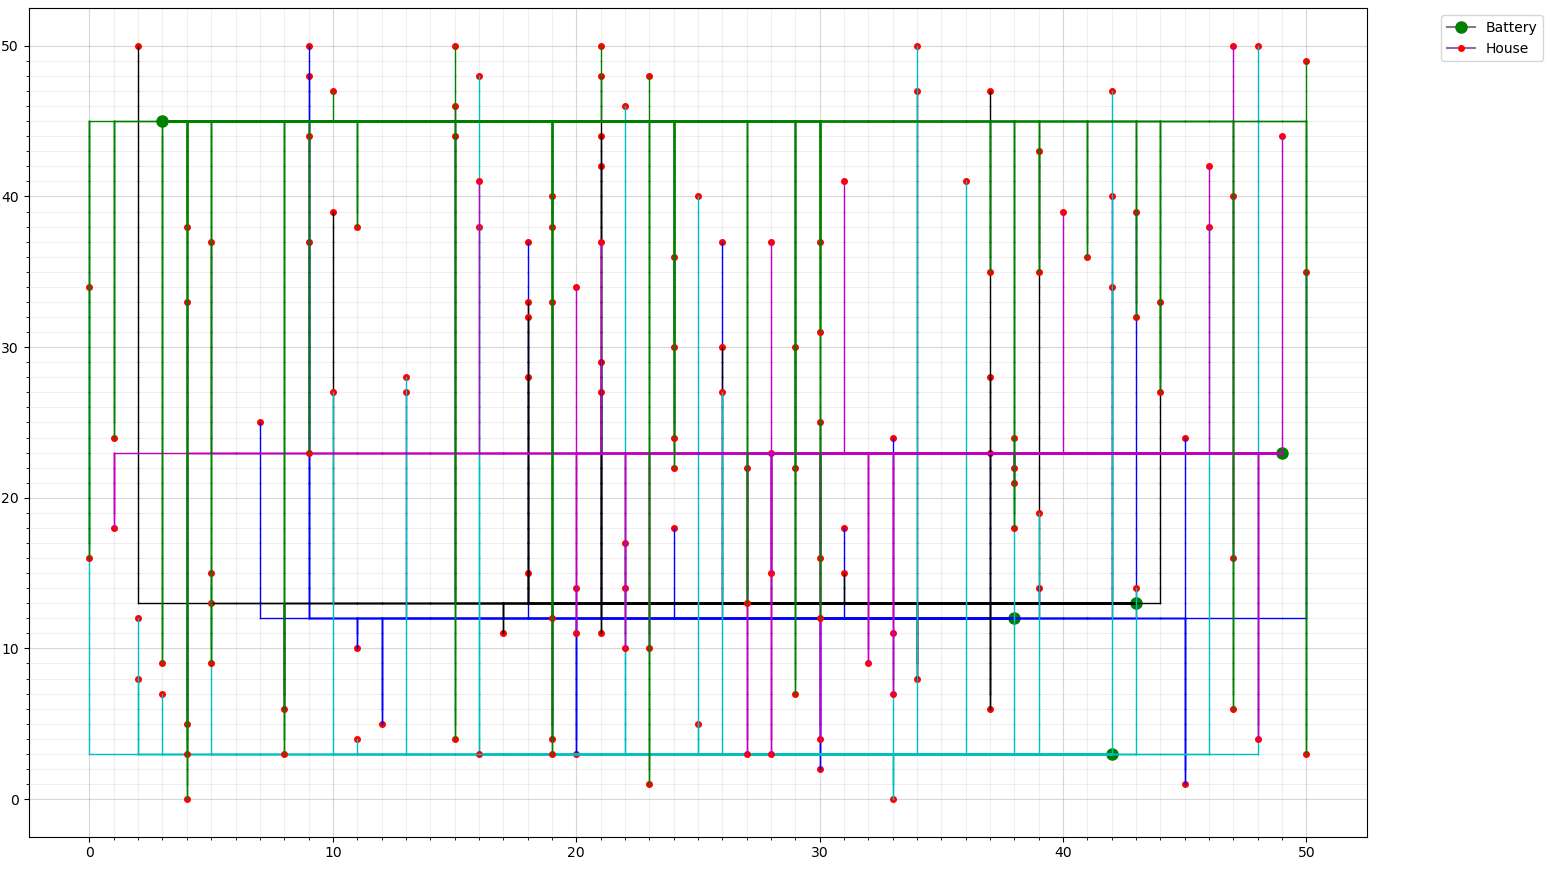
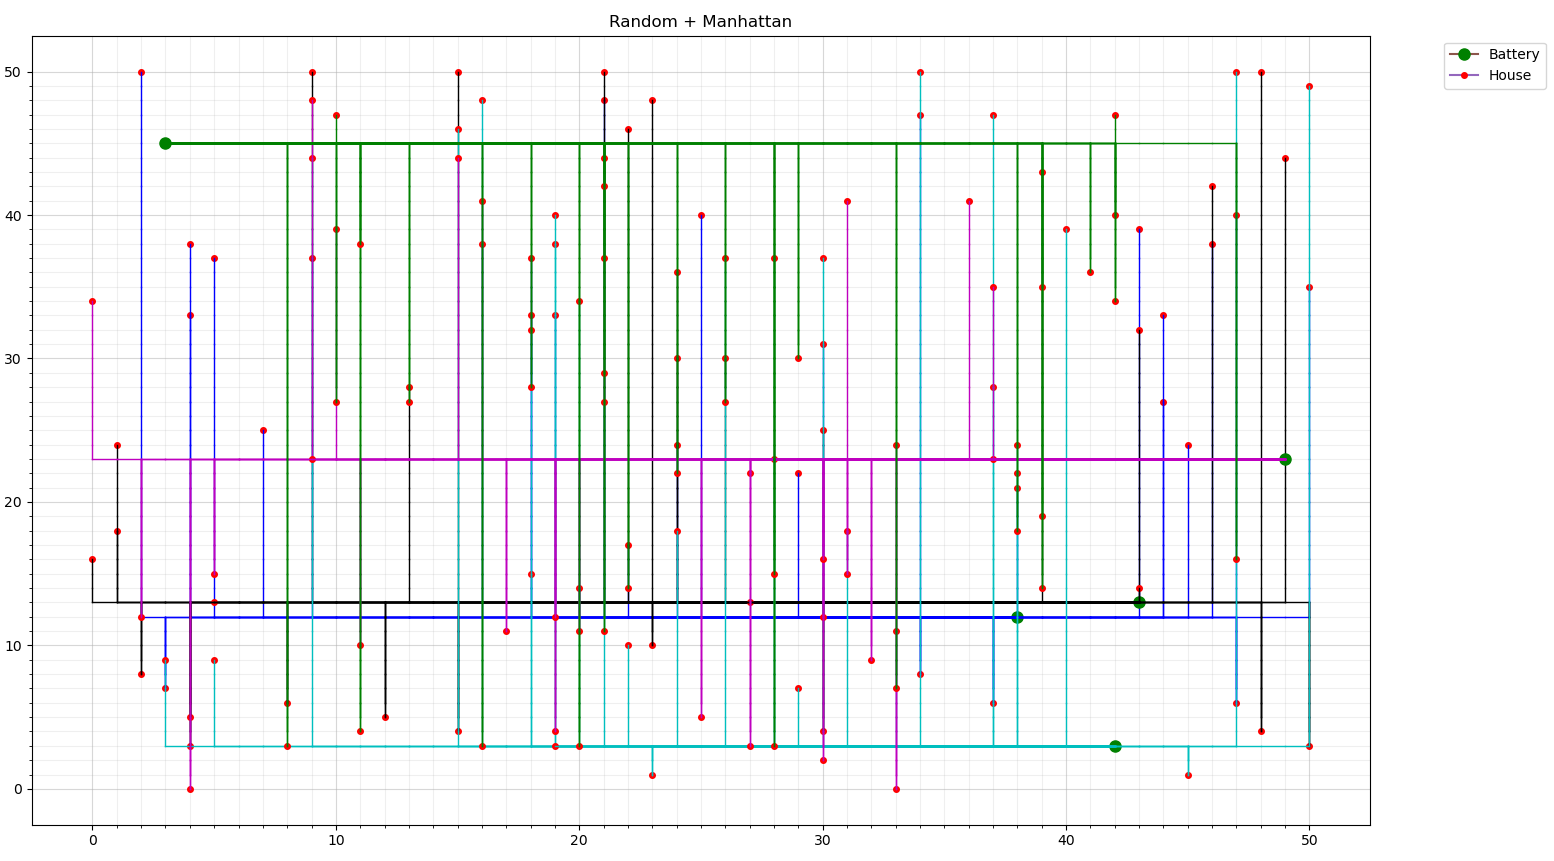
main code in functies gezet

diff --git a/main.py b/main.py
@@ -47,8 +47,9 @@ if __name__ == "__main__":
         if len(sys.argv) == 3:
             alg_method = sys.argv[2]
         else: 
-            alg_method = "--randrwalk"
-
+            alg_method = "--randmanh"
+        
+        district = District(int(sys.argv[1]), "costs-own")
         # Run different methods based on user input
         if alg_method == "--randrwalk":
             """
@@ -58,18 +59,9 @@ if __name__ == "__main__":
                 batttery.
                 Takes quite some time and is really messy in visualisation, 
                 so we only take the first house into account.
-            """
-            district_random_walk = District(int(sys.argv[1]), "costs-own")    
-            connections = random_assignment(district_random_walk.batteries, district_random_walk.houses)
-            house_1 = list(connections.keys())[0]
-            battery = connections[house_1]
-            battery.add_house(house_1)
-            points_walked = random_walk((int(house_1.row), int(house_1.column)), (int(battery.row), int(battery.column)), 50)
-            # Add a cable segment between all the points visited in the random walk
-            for i in range(len(points_walked) - 1):
-                house_1.add_cable_segment((points_walked[i][0], points_walked[i][1]),\
-                                (points_walked[i + 1][0], points_walked[i + 1][1]))
-            plot_output(district_random_walk.return_output(), "Random + random walk")
+            """ 
+            
+            run_random_assingment_random_walk(district)
 
         elif alg_method == "--randmanh":
             """
@@ -78,22 +70,13 @@ if __name__ == "__main__":
                 we now implement the shortest Manhattan distance.
             """
             
-            district_random_shortest = District(int(sys.argv[1]), "costs-own")
-            connections = random_assignment(district_random_shortest.batteries, district_random_shortest.houses)
-            for house in connections:
-                battery = connections[house]
-                # Add the house to the battery connection (such that dictionary is added)
-                battery.add_house(house)
-                district_random_shortest.create_cable(house, battery)
-             
-            print(f"The cost for random assignment and shortest Manhattan distance in district {district.district} is {district_random_shortest.return_cost()}.")
-            plot_output(district_random_shortest.return_output(), "Random + Manhattan")
+            run_random_assignment_shortest_distance(district)
 
         elif alg_method == "--greedmanh":
             """
                 Here we apply a greedy algorithm. A house is assigned to the battery
                 with the most capacity left. The path of the cable is created using 
-                the Manhattan distance from the house towards the battery
+                the shortest Manhattan distance from the house towards the battery
             """
             district = District(int(sys.argv[1]), "costs-own")
             # Uses greedy algorithm to assign houses to batteries
@@ -103,7 +86,6 @@ if __name__ == "__main__":
             for battery in district.batteries:
                 for house in battery.houses: 
                     district.create_cable(house, battery)
-
             print(f"The cost for greedy assignment and shortest Manhattan distance in district {district.district} is {district.return_cost()}.")
             plot_output(district.return_output(), "Greedy + Manhattan")
 

diff --git a/code/algorithms/random.py b/code/algorithms/random.py
@@ -1,4 +1,5 @@
 import random
+from code.visualisation.visualize_output import *
 
 def random_assignment(batteries: list, houses: list) -> dict:
     """ Randomly assigns houses to batteries, not taking capacity into account
@@ -34,8 +35,7 @@ def get_surrounding_points(coordinates: tuple[int], grid_size: int) -> list:
     
 def random_walk(house: tuple[int], battery: tuple[int], grid_size: int) -> list:
     """ Takes a random walk from the house, stops when battery is reached
-        adds all visited points to list
-        TO-DO: add cable-segments along the random walk"""
+        adds all visited points to list"""
     
     # Initialize current location at the house
     current_location = house
@@ -47,4 +47,28 @@ def random_walk(house: tuple[int], battery: tuple[int], grid_size: int) -> list:
         points_visited.append(current_location)
     
     return points_visited
+
+def run_random_assingment_random_walk(district):
+    connections = random_assignment(district.batteries, district.houses)
+    house_1 = list(connections.keys())[0]
+    battery = connections[house_1]
+    battery.add_house(house_1)
+    points_walked = random_walk((int(house_1.row), int(house_1.column)), (int(battery.row), int(battery.column)), 50)
+    # Add a cable segment between all the points visited in the random walk
+    for i in range(len(points_walked) - 1):
+        house_1.add_cable_segment((points_walked[i][0], points_walked[i][1]),\
+                        (points_walked[i + 1][0], points_walked[i + 1][1]))
+    plot_output(district.return_output(), "Random + random walk")
+    
+def run_random_assignment_shortest_distance(district):
+    connections = random_assignment(district.batteries, district.houses)
+    for house in connections:
+        battery = connections[house]
+        # Add the house to the battery connection (such that dictionary is added)
+        battery.add_house(house)
+        district.create_cable(house, battery)
+     
+    print(f"The cost for random assignment and shortest Manhattan distance in district {district.district}\
+            is {district.return_cost()}.")
+    plot_output(district.return_output(), "Random + Manhattan")
     
